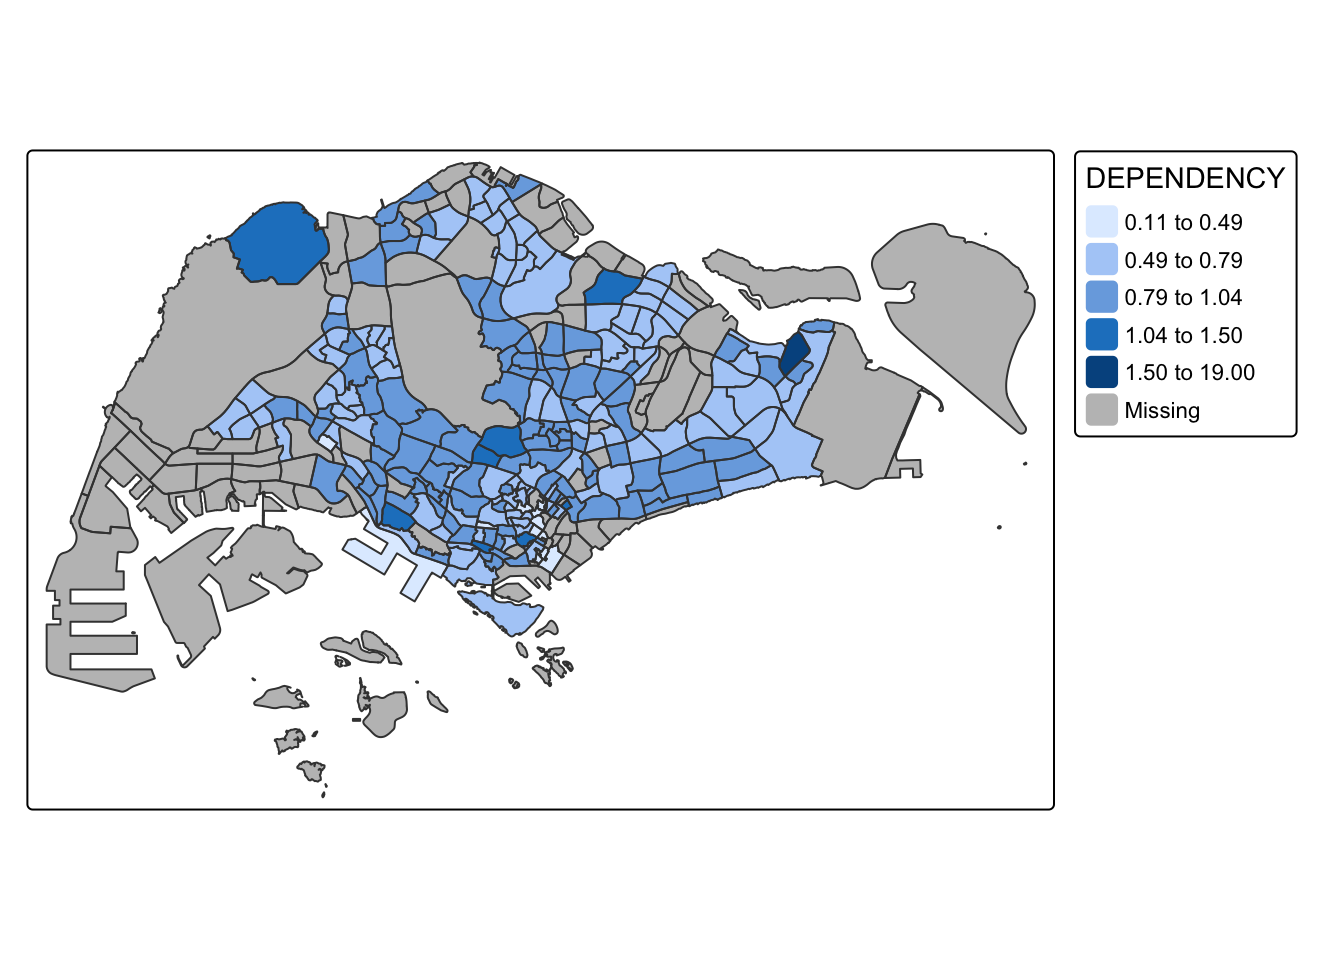
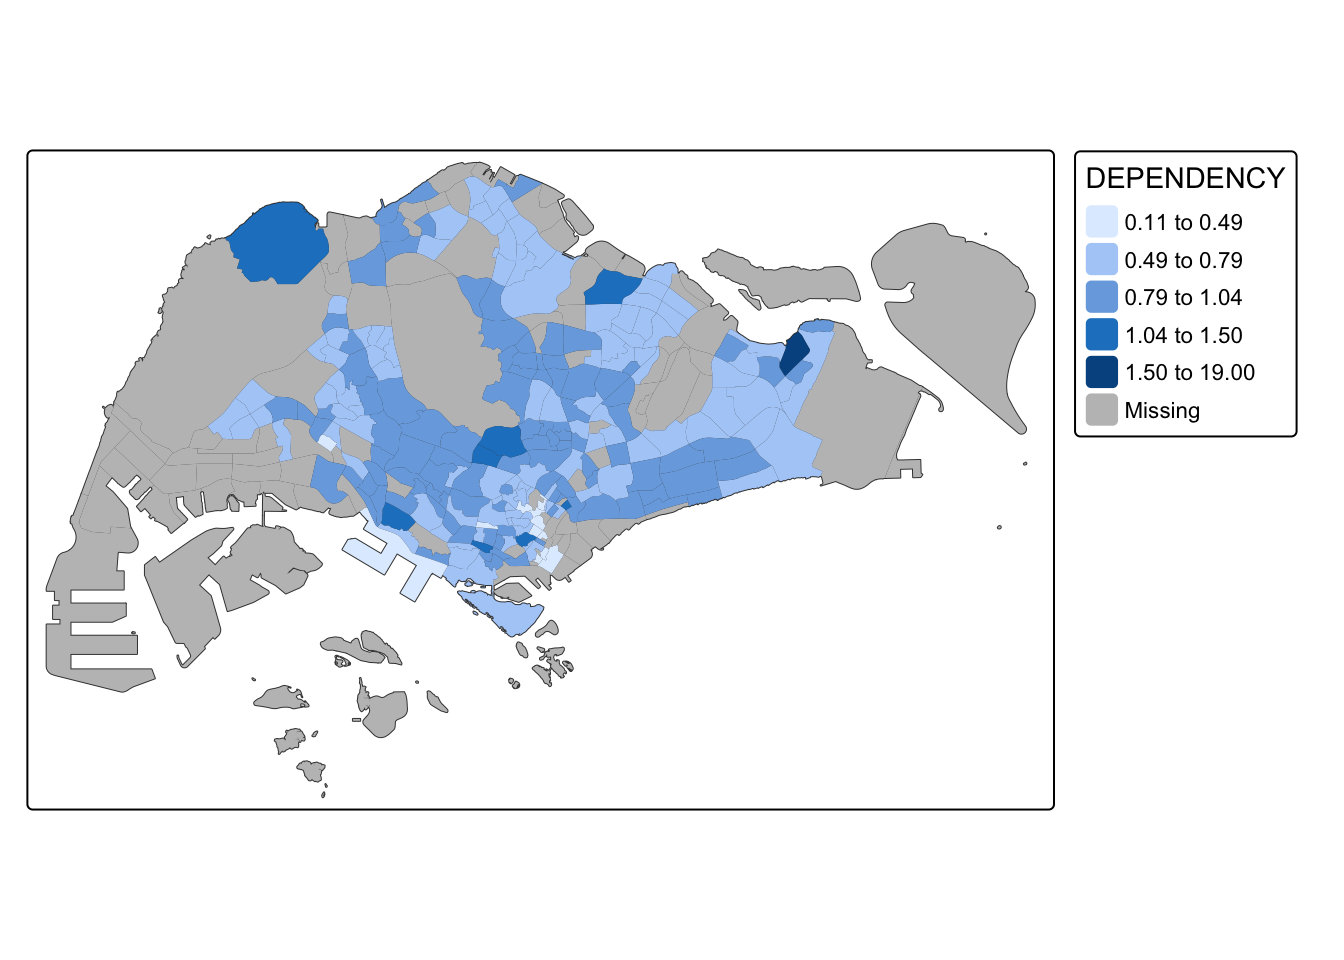
Hands on Ex 15

diff --git a/_site/Hands-on_Exercise/Hands-on_Ex15/Hands-on_Ex15.html b/_site/Hands-on_Exercise/Hands-on_Ex15/Hands-on_Ex15.html
@@ -317,7 +317,7 @@ pre > code.sourceCode > span > a:first-child::before { text-decoration: underlin
     <div>
     <div class="quarto-title-meta-heading">Modified</div>
     <div class="quarto-title-meta-contents">
-      <p class="date-modified">March 13, 2025</p>
+      <p class="date-modified">March 14, 2025</p>
     </div>
   </div>
     
@@ -592,23 +592,23 @@ Things to learn from the code chunk above
 <h3 class="anchored" data-anchor-id="creating-a-choropleth-map-by-using-tmaps-elements"><strong>15.4.2 Creating a choropleth map by using <em>tmap</em>’s elements</strong></h3>
 <p>Despite its usefulness of drawing a choropleth map quickly and easily, the disadvantge of <em>qtm()</em> is that it makes aesthetics of individual layers harder to control. To draw a high quality cartographic choropleth map as shown in the figure below, <strong>tmap</strong>’s drawing elements should be used.</p>
 <div class="cell">
-<div class="sourceCode cell-code" id="cb12"><pre class="sourceCode r code-with-copy"><code class="sourceCode r"><span id="cb12-1"><a href="#cb12-1" aria-hidden="true" tabindex="-1"></a><span class="fu">tm_shape</span>(mpsz_pop2020)<span class="sc">+</span></span>
-<span id="cb12-2"><a href="#cb12-2" aria-hidden="true" tabindex="-1"></a>  <span class="fu">tm_fill</span>(<span class="st">"DEPENDENCY"</span>, </span>
-<span id="cb12-3"><a href="#cb12-3" aria-hidden="true" tabindex="-1"></a>          <span class="at">style =</span> <span class="st">"quantile"</span>, </span>
-<span id="cb12-4"><a href="#cb12-4" aria-hidden="true" tabindex="-1"></a>          <span class="at">palette =</span> <span class="st">"Blues"</span>,</span>
-<span id="cb12-5"><a href="#cb12-5" aria-hidden="true" tabindex="-1"></a>          <span class="at">title =</span> <span class="st">"Dependency ratio"</span>) <span class="sc">+</span></span>
-<span id="cb12-6"><a href="#cb12-6" aria-hidden="true" tabindex="-1"></a>  <span class="fu">tm_layout</span>(<span class="at">main.title =</span> <span class="st">"Distribution of Dependency Ratio by planning subzone"</span>,</span>
-<span id="cb12-7"><a href="#cb12-7" aria-hidden="true" tabindex="-1"></a>            <span class="at">main.title.position =</span> <span class="st">"center"</span>,</span>
-<span id="cb12-8"><a href="#cb12-8" aria-hidden="true" tabindex="-1"></a>            <span class="at">main.title.size =</span> <span class="fl">1.2</span>,</span>
-<span id="cb12-9"><a href="#cb12-9" aria-hidden="true" tabindex="-1"></a>            <span class="at">legend.height =</span> <span class="fl">0.45</span>, </span>
-<span id="cb12-10"><a href="#cb12-10" aria-hidden="true" tabindex="-1"></a>            <span class="at">legend.width =</span> <span class="fl">0.35</span>,</span>
-<span id="cb12-11"><a href="#cb12-11" aria-hidden="true" tabindex="-1"></a>            <span class="at">frame =</span> <span class="cn">TRUE</span>) <span class="sc">+</span></span>
-<span id="cb12-12"><a href="#cb12-12" aria-hidden="true" tabindex="-1"></a>  <span class="fu">tm_borders</span>(<span class="at">alpha =</span> <span class="fl">0.5</span>) <span class="sc">+</span></span>
-<span id="cb12-13"><a href="#cb12-13" aria-hidden="true" tabindex="-1"></a>  <span class="fu">tm_compass</span>(<span class="at">type=</span><span class="st">"8star"</span>, <span class="at">size =</span> <span class="dv">2</span>) <span class="sc">+</span></span>
-<span id="cb12-14"><a href="#cb12-14" aria-hidden="true" tabindex="-1"></a>  <span class="fu">tm_scale_bar</span>() <span class="sc">+</span></span>
-<span id="cb12-15"><a href="#cb12-15" aria-hidden="true" tabindex="-1"></a>  <span class="fu">tm_grid</span>(<span class="at">alpha =</span><span class="fl">0.2</span>) <span class="sc">+</span></span>
-<span id="cb12-16"><a href="#cb12-16" aria-hidden="true" tabindex="-1"></a>  <span class="fu">tm_credits</span>(<span class="st">"Source: Planning Sub-zone boundary from Urban Redevelopment Authorithy (URA)</span><span class="sc">\n</span><span class="st"> and Population data from Department of Statistics DOS"</span>, </span>
-<span id="cb12-17"><a href="#cb12-17" aria-hidden="true" tabindex="-1"></a>             <span class="at">position =</span> <span class="fu">c</span>(<span class="st">"left"</span>, <span class="st">"bottom"</span>))</span></code><button title="Copy to Clipboard" class="code-copy-button"><i class="bi"></i></button></pre></div>
+<div class="sourceCode cell-code" id="cb12"><pre class="sourceCode r code-with-copy"><code class="sourceCode r"><span id="cb12-1"><a href="#cb12-1" aria-hidden="true" tabindex="-1"></a><span class="fu">tm_shape</span>(mpsz_pop2020) <span class="sc">+</span></span>
+<span id="cb12-2"><a href="#cb12-2" aria-hidden="true" tabindex="-1"></a>  <span class="fu">tm_layout</span>(<span class="at">main.title =</span> <span class="st">"Distribution of Dependency Ratio by planning subzone"</span>,</span>
+<span id="cb12-3"><a href="#cb12-3" aria-hidden="true" tabindex="-1"></a>            <span class="at">main.title.position =</span> <span class="st">"center"</span>,</span>
+<span id="cb12-4"><a href="#cb12-4" aria-hidden="true" tabindex="-1"></a>            <span class="at">main.title.size =</span> <span class="fl">1.2</span>,</span>
+<span id="cb12-5"><a href="#cb12-5" aria-hidden="true" tabindex="-1"></a>            <span class="at">legend.height =</span> <span class="fl">0.45</span>, </span>
+<span id="cb12-6"><a href="#cb12-6" aria-hidden="true" tabindex="-1"></a>            <span class="at">legend.width =</span> <span class="fl">0.35</span>,</span>
+<span id="cb12-7"><a href="#cb12-7" aria-hidden="true" tabindex="-1"></a>            <span class="at">frame =</span> <span class="cn">TRUE</span>) <span class="sc">+</span></span>
+<span id="cb12-8"><a href="#cb12-8" aria-hidden="true" tabindex="-1"></a>  <span class="fu">tm_borders</span>(<span class="at">alpha =</span> <span class="fl">0.5</span>) <span class="sc">+</span></span>
+<span id="cb12-9"><a href="#cb12-9" aria-hidden="true" tabindex="-1"></a>  <span class="fu">tm_compass</span>(<span class="at">type=</span><span class="st">"8star"</span>, <span class="at">size =</span> <span class="dv">2</span>) <span class="sc">+</span></span>
+<span id="cb12-10"><a href="#cb12-10" aria-hidden="true" tabindex="-1"></a>  <span class="fu">tm_scale_bar</span>() <span class="sc">+</span></span>
+<span id="cb12-11"><a href="#cb12-11" aria-hidden="true" tabindex="-1"></a>  <span class="fu">tm_grid</span>(<span class="at">alpha =</span><span class="fl">0.2</span>) <span class="sc">+</span></span>
+<span id="cb12-12"><a href="#cb12-12" aria-hidden="true" tabindex="-1"></a>  <span class="fu">tm_credits</span>(<span class="st">"Source: Planning Sub-zone boundary from Urban Redevelopment Authorithy (URA)</span><span class="sc">\n</span><span class="st"> and Population data from Department of Statistics DOS"</span>, </span>
+<span id="cb12-13"><a href="#cb12-13" aria-hidden="true" tabindex="-1"></a>             <span class="at">position =</span> <span class="fu">c</span>(<span class="st">"left"</span>, <span class="st">"bottom"</span>))<span class="sc">+</span></span>
+<span id="cb12-14"><a href="#cb12-14" aria-hidden="true" tabindex="-1"></a>  <span class="fu">tm_fill</span>(<span class="st">"DEPENDENCY"</span>, </span>
+<span id="cb12-15"><a href="#cb12-15" aria-hidden="true" tabindex="-1"></a>          <span class="at">style =</span> <span class="st">"quantile"</span>, </span>
+<span id="cb12-16"><a href="#cb12-16" aria-hidden="true" tabindex="-1"></a>          <span class="at">palette =</span> <span class="st">"Blues"</span>,</span>
+<span id="cb12-17"><a href="#cb12-17" aria-hidden="true" tabindex="-1"></a>          <span class="at">title =</span> <span class="st">"Dependency ratio"</span>)</span></code><button title="Copy to Clipboard" class="code-copy-button"><i class="bi"></i></button></pre></div>
 <div class="cell-output-display">
 <div>
 <figure class="figure">
@@ -714,9 +714,9 @@ Things to learn from tm_polygons()
 <p>The code chunk below shows a quantile data classification that used 5 classes.</p>
 <div class="cell">
 <div class="sourceCode cell-code" id="cb17"><pre class="sourceCode r code-with-copy"><code class="sourceCode r"><span id="cb17-1"><a href="#cb17-1" aria-hidden="true" tabindex="-1"></a><span class="fu">tm_shape</span>(mpsz_pop2020) <span class="sc">+</span></span>
-<span id="cb17-2"><a href="#cb17-2" aria-hidden="true" tabindex="-1"></a>  <span class="fu">tm_fill</span>(<span class="st">"DEPENDENCY"</span>, </span>
-<span id="cb17-3"><a href="#cb17-3" aria-hidden="true" tabindex="-1"></a>          <span class="at">fill.scale =</span> <span class="fu">tm_scale_intervals</span>(<span class="at">n =</span> <span class="dv">5</span>, <span class="at">style =</span> <span class="st">"jenks"</span>)) <span class="sc">+</span> </span>
-<span id="cb17-4"><a href="#cb17-4" aria-hidden="true" tabindex="-1"></a>  <span class="fu">tm_borders</span>(<span class="at">fill_alpha =</span> <span class="fl">0.5</span>)  </span></code><button title="Copy to Clipboard" class="code-copy-button"><i class="bi"></i></button></pre></div>
+<span id="cb17-2"><a href="#cb17-2" aria-hidden="true" tabindex="-1"></a>  <span class="fu">tm_borders</span>(<span class="at">fill_alpha =</span> <span class="fl">0.5</span>) <span class="sc">+</span></span>
+<span id="cb17-3"><a href="#cb17-3" aria-hidden="true" tabindex="-1"></a>  <span class="fu">tm_fill</span>(<span class="st">"DEPENDENCY"</span>, </span>
+<span id="cb17-4"><a href="#cb17-4" aria-hidden="true" tabindex="-1"></a>          <span class="at">fill.scale =</span> <span class="fu">tm_scale_intervals</span>(<span class="at">n =</span> <span class="dv">5</span>, <span class="at">style =</span> <span class="st">"jenks"</span>))</span></code><button title="Copy to Clipboard" class="code-copy-button"><i class="bi"></i></button></pre></div>
 <div class="cell-output-display">
 <div>
 <figure class="figure">
@@ -946,26 +946,47 @@ Things to learn from tm_polygons()
 <section id="by-defining-a-group-by-variable-in-tm_facets" class="level4">
 <h4 class="anchored" data-anchor-id="by-defining-a-group-by-variable-in-tm_facets">15.4.6.2 By defining a group-by variable in <em>tm_facets()</em></h4>
 <p>In this example, multiple small choropleth maps are created by using <strong>tm_facets()</strong>.</p>
+<div class="cell">
+<div class="sourceCode cell-code" id="cb30"><pre class="sourceCode r code-with-copy"><code class="sourceCode r"><span id="cb30-1"><a href="#cb30-1" aria-hidden="true" tabindex="-1"></a><span class="fu">tm_shape</span>(mpsz_pop2020) <span class="sc">+</span></span>
+<span id="cb30-2"><a href="#cb30-2" aria-hidden="true" tabindex="-1"></a>  <span class="fu">tm_fill</span>(<span class="st">"DEPENDENCY"</span>,</span>
+<span id="cb30-3"><a href="#cb30-3" aria-hidden="true" tabindex="-1"></a>          <span class="at">fill.scale =</span> <span class="fu">tm_scale_intervals</span>(),</span>
+<span id="cb30-4"><a href="#cb30-4" aria-hidden="true" tabindex="-1"></a>          <span class="at">values =</span> <span class="st">"brewer.blues"</span>,</span>
+<span id="cb30-5"><a href="#cb30-5" aria-hidden="true" tabindex="-1"></a>          <span class="at">thres.poly =</span> <span class="dv">0</span>) <span class="sc">+</span></span>
+<span id="cb30-6"><a href="#cb30-6" aria-hidden="true" tabindex="-1"></a>  <span class="fu">tm_facets</span>(<span class="at">by =</span> <span class="st">"REGION_N"</span>,</span>
+<span id="cb30-7"><a href="#cb30-7" aria-hidden="true" tabindex="-1"></a>            <span class="at">free.coords =</span> <span class="cn">FALSE</span>,</span>
+<span id="cb30-8"><a href="#cb30-8" aria-hidden="true" tabindex="-1"></a>            <span class="at">drop.units =</span> <span class="cn">TRUE</span>) <span class="sc">+</span></span>
+<span id="cb30-9"><a href="#cb30-9" aria-hidden="true" tabindex="-1"></a>  <span class="fu">tm_layout</span>(<span class="at">legend.show =</span> <span class="cn">FALSE</span>,</span>
+<span id="cb30-10"><a href="#cb30-10" aria-hidden="true" tabindex="-1"></a>            <span class="at">title.position =</span> <span class="fu">c</span>(<span class="st">"center"</span>, <span class="st">"center"</span>),</span>
+<span id="cb30-11"><a href="#cb30-11" aria-hidden="true" tabindex="-1"></a>            <span class="at">title.size =</span> <span class="dv">20</span>) <span class="sc">+</span></span>
+<span id="cb30-12"><a href="#cb30-12" aria-hidden="true" tabindex="-1"></a>  <span class="fu">tm_borders</span>(<span class="at">fill_alpha =</span> <span class="dv">1</span>)</span></code><button title="Copy to Clipboard" class="code-copy-button"><i class="bi"></i></button></pre></div>
+<div class="cell-output-display">
+<div>
+<figure class="figure">
+<p><img src="Hands-on_Ex15_files/figure-html/unnamed-chunk-27-1.png" class="img-fluid figure-img" width="672"></p>
+</figure>
+</div>
+</div>
+</div>
 </section>
 <section id="by-creating-multiple-stand-alone-maps-with-tmap_arrange" class="level4">
 <h4 class="anchored" data-anchor-id="by-creating-multiple-stand-alone-maps-with-tmap_arrange">15.4.6.3 By creating multiple stand-alone maps with <em>tmap_arrange()</em></h4>
 <p>In this example, multiple small choropleth maps are created by creating multiple stand-alone maps with <strong>tmap_arrange()</strong>.</p>
 <div class="cell">
-<div class="sourceCode cell-code" id="cb30"><pre class="sourceCode r code-with-copy"><code class="sourceCode r"><span id="cb30-1"><a href="#cb30-1" aria-hidden="true" tabindex="-1"></a>youngmap <span class="ot">&lt;-</span> <span class="fu">tm_shape</span>(mpsz_pop2020)<span class="sc">+</span> </span>
-<span id="cb30-2"><a href="#cb30-2" aria-hidden="true" tabindex="-1"></a>  <span class="fu">tm_polygons</span>(<span class="st">"YOUNG"</span>, </span>
-<span id="cb30-3"><a href="#cb30-3" aria-hidden="true" tabindex="-1"></a>              <span class="at">style =</span> <span class="st">"quantile"</span>, </span>
-<span id="cb30-4"><a href="#cb30-4" aria-hidden="true" tabindex="-1"></a>              <span class="at">palette =</span> <span class="st">"Blues"</span>)</span>
-<span id="cb30-5"><a href="#cb30-5" aria-hidden="true" tabindex="-1"></a></span>
-<span id="cb30-6"><a href="#cb30-6" aria-hidden="true" tabindex="-1"></a>agedmap <span class="ot">&lt;-</span> <span class="fu">tm_shape</span>(mpsz_pop2020)<span class="sc">+</span> </span>
-<span id="cb30-7"><a href="#cb30-7" aria-hidden="true" tabindex="-1"></a>  <span class="fu">tm_polygons</span>(<span class="st">"AGED"</span>, </span>
-<span id="cb30-8"><a href="#cb30-8" aria-hidden="true" tabindex="-1"></a>              <span class="at">style =</span> <span class="st">"quantile"</span>, </span>
-<span id="cb30-9"><a href="#cb30-9" aria-hidden="true" tabindex="-1"></a>              <span class="at">palette =</span> <span class="st">"Blues"</span>)</span>
-<span id="cb30-10"><a href="#cb30-10" aria-hidden="true" tabindex="-1"></a></span>
-<span id="cb30-11"><a href="#cb30-11" aria-hidden="true" tabindex="-1"></a><span class="fu">tmap_arrange</span>(youngmap, agedmap, <span class="at">asp=</span><span class="dv">1</span>, <span class="at">ncol=</span><span class="dv">2</span>)</span></code><button title="Copy to Clipboard" class="code-copy-button"><i class="bi"></i></button></pre></div>
+<div class="sourceCode cell-code" id="cb31"><pre class="sourceCode r code-with-copy"><code class="sourceCode r"><span id="cb31-1"><a href="#cb31-1" aria-hidden="true" tabindex="-1"></a>youngmap <span class="ot">&lt;-</span> <span class="fu">tm_shape</span>(mpsz_pop2020)<span class="sc">+</span> </span>
+<span id="cb31-2"><a href="#cb31-2" aria-hidden="true" tabindex="-1"></a>  <span class="fu">tm_polygons</span>(<span class="st">"YOUNG"</span>, </span>
+<span id="cb31-3"><a href="#cb31-3" aria-hidden="true" tabindex="-1"></a>              <span class="at">style =</span> <span class="st">"quantile"</span>, </span>
+<span id="cb31-4"><a href="#cb31-4" aria-hidden="true" tabindex="-1"></a>              <span class="at">palette =</span> <span class="st">"Blues"</span>)</span>
+<span id="cb31-5"><a href="#cb31-5" aria-hidden="true" tabindex="-1"></a></span>
+<span id="cb31-6"><a href="#cb31-6" aria-hidden="true" tabindex="-1"></a>agedmap <span class="ot">&lt;-</span> <span class="fu">tm_shape</span>(mpsz_pop2020)<span class="sc">+</span> </span>
+<span id="cb31-7"><a href="#cb31-7" aria-hidden="true" tabindex="-1"></a>  <span class="fu">tm_polygons</span>(<span class="st">"AGED"</span>, </span>
+<span id="cb31-8"><a href="#cb31-8" aria-hidden="true" tabindex="-1"></a>              <span class="at">style =</span> <span class="st">"quantile"</span>, </span>
+<span id="cb31-9"><a href="#cb31-9" aria-hidden="true" tabindex="-1"></a>              <span class="at">palette =</span> <span class="st">"Blues"</span>)</span>
+<span id="cb31-10"><a href="#cb31-10" aria-hidden="true" tabindex="-1"></a></span>
+<span id="cb31-11"><a href="#cb31-11" aria-hidden="true" tabindex="-1"></a><span class="fu">tmap_arrange</span>(youngmap, agedmap, <span class="at">asp=</span><span class="dv">1</span>, <span class="at">ncol=</span><span class="dv">2</span>)</span></code><button title="Copy to Clipboard" class="code-copy-button"><i class="bi"></i></button></pre></div>
 <div class="cell-output-display">
 <div>
 <figure class="figure">
-<p><img src="Hands-on_Ex15_files/figure-html/unnamed-chunk-27-1.png" class="img-fluid figure-img" width="672"></p>
+<p><img src="Hands-on_Ex15_files/figure-html/unnamed-chunk-28-1.png" class="img-fluid figure-img" width="672"></p>
 </figure>
 </div>
 </div>
@@ -976,22 +997,22 @@ Things to learn from tm_polygons()
 <h3 class="anchored" data-anchor-id="mappping-spatial-object-meeting-a-selection-criterion"><strong>15.4.7 Mappping Spatial Object Meeting a Selection Criterion</strong></h3>
 <p>Instead of creating small multiple choropleth map, you can also use selection funtion to map spatial objects meeting the selection criterion.</p>
 <div class="cell">
-<div class="sourceCode cell-code" id="cb31"><pre class="sourceCode r code-with-copy"><code class="sourceCode r"><span id="cb31-1"><a href="#cb31-1" aria-hidden="true" tabindex="-1"></a><span class="fu">tm_shape</span>(mpsz_pop2020[mpsz_pop2020<span class="sc">$</span>REGION_N<span class="sc">==</span><span class="st">"CENTRAL REGION"</span>, ])<span class="sc">+</span></span>
-<span id="cb31-2"><a href="#cb31-2" aria-hidden="true" tabindex="-1"></a>  <span class="fu">tm_fill</span>(<span class="st">"DEPENDENCY"</span>, </span>
-<span id="cb31-3"><a href="#cb31-3" aria-hidden="true" tabindex="-1"></a>          <span class="at">fill.scale =</span> <span class="fu">tm_scale_intervals</span>(<span class="at">style =</span> <span class="st">"quantile"</span>, <span class="at">values =</span> <span class="st">"brewer.blues"</span>), </span>
-<span id="cb31-4"><a href="#cb31-4" aria-hidden="true" tabindex="-1"></a>          <span class="at">legend.hist =</span> <span class="cn">TRUE</span>, </span>
-<span id="cb31-5"><a href="#cb31-5" aria-hidden="true" tabindex="-1"></a>          <span class="at">legend.is.portrait =</span> <span class="cn">TRUE</span>,</span>
-<span id="cb31-6"><a href="#cb31-6" aria-hidden="true" tabindex="-1"></a>          <span class="at">legend.hist.z =</span> <span class="fl">0.1</span>) <span class="sc">+</span></span>
-<span id="cb31-7"><a href="#cb31-7" aria-hidden="true" tabindex="-1"></a>  <span class="fu">tm_layout</span>(<span class="at">legend.outside =</span> <span class="cn">TRUE</span>,</span>
-<span id="cb31-8"><a href="#cb31-8" aria-hidden="true" tabindex="-1"></a>            <span class="at">legend.height =</span> <span class="fl">0.45</span>, </span>
-<span id="cb31-9"><a href="#cb31-9" aria-hidden="true" tabindex="-1"></a>            <span class="at">legend.width =</span> <span class="fl">5.0</span>,</span>
-<span id="cb31-10"><a href="#cb31-10" aria-hidden="true" tabindex="-1"></a>            <span class="at">legend.position =</span> <span class="fu">c</span>(<span class="st">"right"</span>, <span class="st">"bottom"</span>),</span>
-<span id="cb31-11"><a href="#cb31-11" aria-hidden="true" tabindex="-1"></a>            <span class="at">frame =</span> <span class="cn">FALSE</span>) <span class="sc">+</span></span>
-<span id="cb31-12"><a href="#cb31-12" aria-hidden="true" tabindex="-1"></a>  <span class="fu">tm_borders</span>(<span class="at">fill_alpha =</span> <span class="fl">0.5</span>)</span></code><button title="Copy to Clipboard" class="code-copy-button"><i class="bi"></i></button></pre></div>
+<div class="sourceCode cell-code" id="cb32"><pre class="sourceCode r code-with-copy"><code class="sourceCode r"><span id="cb32-1"><a href="#cb32-1" aria-hidden="true" tabindex="-1"></a><span class="fu">tm_shape</span>(mpsz_pop2020[mpsz_pop2020<span class="sc">$</span>REGION_N<span class="sc">==</span><span class="st">"CENTRAL REGION"</span>, ])<span class="sc">+</span></span>
+<span id="cb32-2"><a href="#cb32-2" aria-hidden="true" tabindex="-1"></a>  <span class="fu">tm_fill</span>(<span class="st">"DEPENDENCY"</span>, </span>
+<span id="cb32-3"><a href="#cb32-3" aria-hidden="true" tabindex="-1"></a>          <span class="at">fill.scale =</span> <span class="fu">tm_scale_intervals</span>(<span class="at">style =</span> <span class="st">"quantile"</span>, <span class="at">values =</span> <span class="st">"brewer.blues"</span>), </span>
+<span id="cb32-4"><a href="#cb32-4" aria-hidden="true" tabindex="-1"></a>          <span class="at">legend.hist =</span> <span class="cn">TRUE</span>, </span>
+<span id="cb32-5"><a href="#cb32-5" aria-hidden="true" tabindex="-1"></a>          <span class="at">legend.is.portrait =</span> <span class="cn">TRUE</span>,</span>
+<span id="cb32-6"><a href="#cb32-6" aria-hidden="true" tabindex="-1"></a>          <span class="at">legend.hist.z =</span> <span class="fl">0.1</span>) <span class="sc">+</span></span>
+<span id="cb32-7"><a href="#cb32-7" aria-hidden="true" tabindex="-1"></a>  <span class="fu">tm_layout</span>(<span class="at">legend.outside =</span> <span class="cn">TRUE</span>,</span>
+<span id="cb32-8"><a href="#cb32-8" aria-hidden="true" tabindex="-1"></a>            <span class="at">legend.height =</span> <span class="fl">0.45</span>, </span>
+<span id="cb32-9"><a href="#cb32-9" aria-hidden="true" tabindex="-1"></a>            <span class="at">legend.width =</span> <span class="fl">5.0</span>,</span>
+<span id="cb32-10"><a href="#cb32-10" aria-hidden="true" tabindex="-1"></a>            <span class="at">legend.position =</span> <span class="fu">c</span>(<span class="st">"right"</span>, <span class="st">"bottom"</span>),</span>
+<span id="cb32-11"><a href="#cb32-11" aria-hidden="true" tabindex="-1"></a>            <span class="at">frame =</span> <span class="cn">FALSE</span>) <span class="sc">+</span></span>
+<span id="cb32-12"><a href="#cb32-12" aria-hidden="true" tabindex="-1"></a>  <span class="fu">tm_borders</span>(<span class="at">fill_alpha =</span> <span class="fl">0.5</span>)</span></code><button title="Copy to Clipboard" class="code-copy-button"><i class="bi"></i></button></pre></div>
 <div class="cell-output-display">
 <div>
 <figure class="figure">
-<p><img src="Hands-on_Ex15_files/figure-html/unnamed-chunk-28-1.png" class="img-fluid figure-img" width="1152"></p>
+<p><img src="Hands-on_Ex15_files/figure-html/unnamed-chunk-29-1.png" class="img-fluid figure-img" width="1152"></p>
 </figure>
 </div>
 </div>
